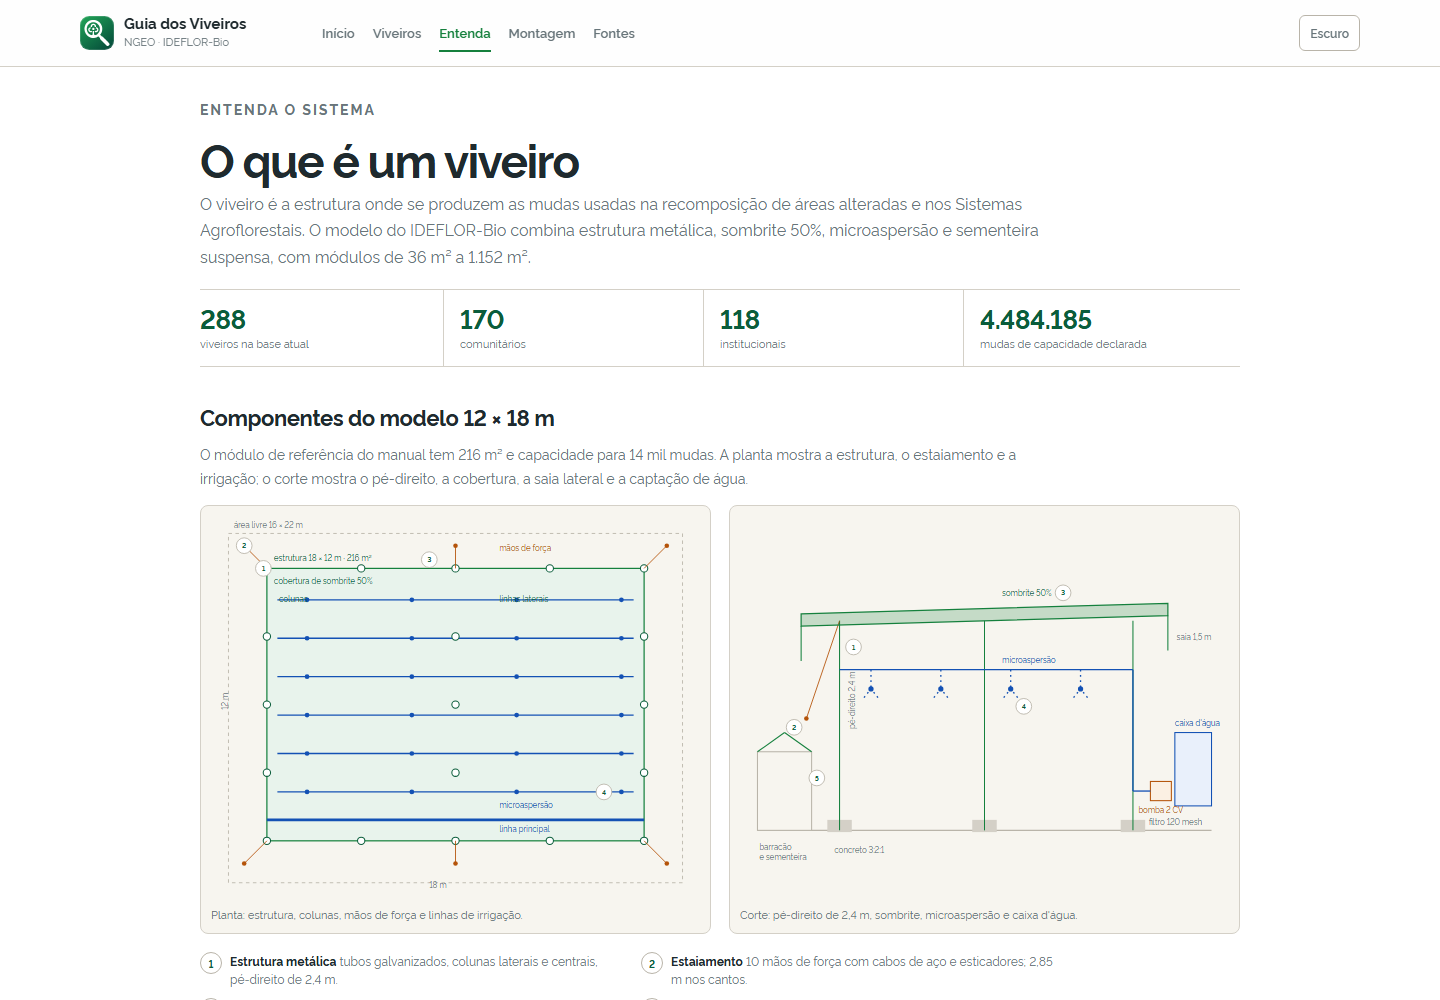
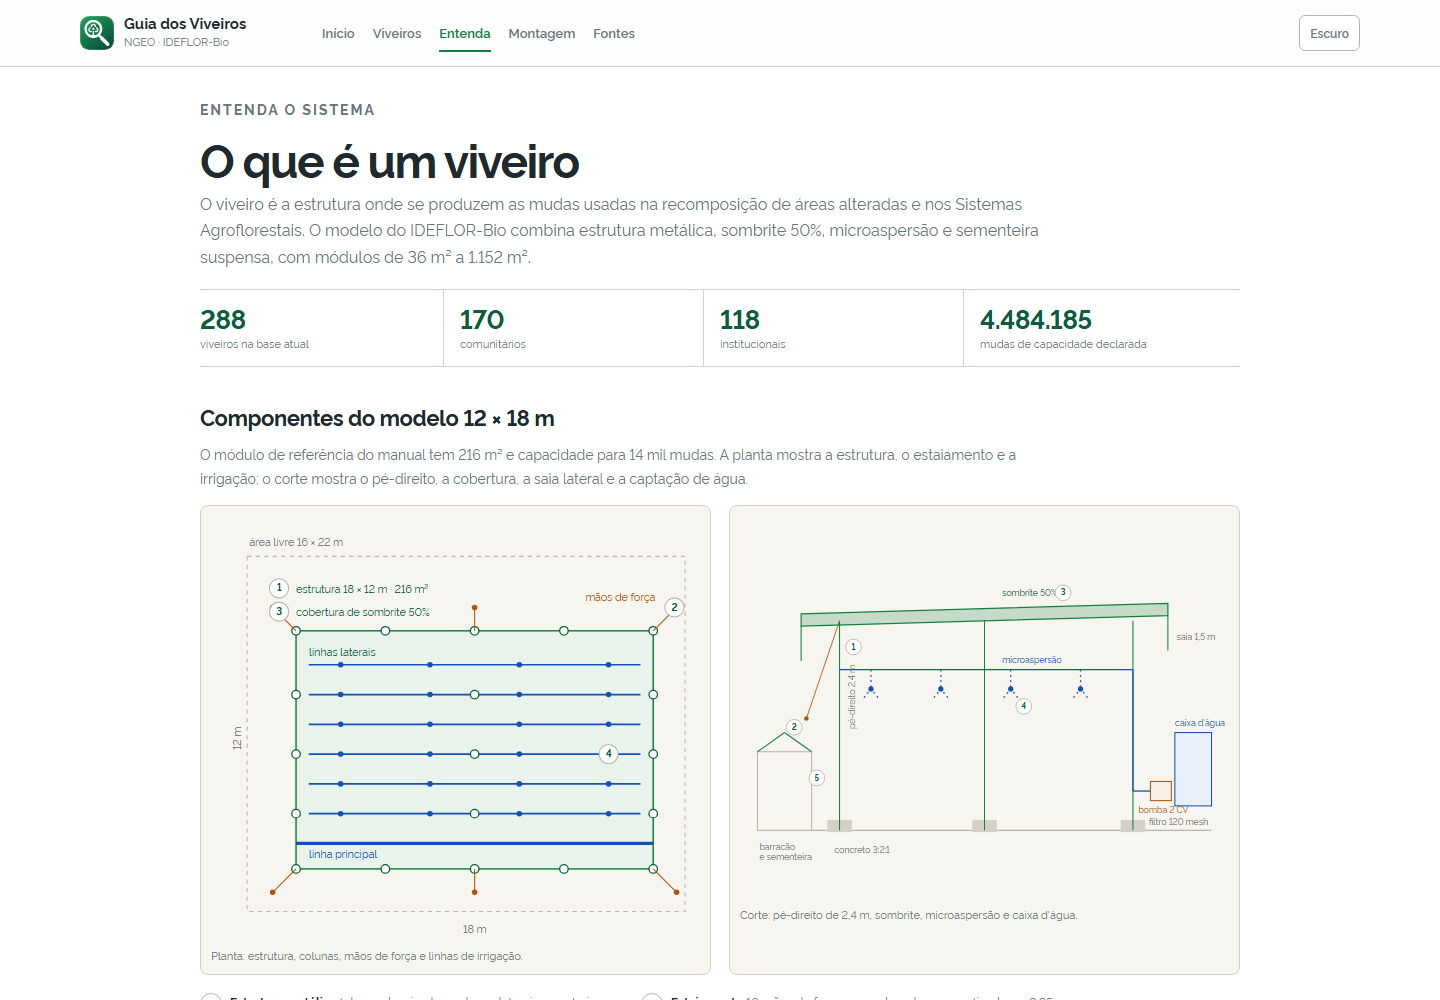
fix(diagram): alinha svg da planta do viveiro ao manual de montagem
- Ajusta proporção e viewBox para 460x400
- Configura malha estrutural real com 12 colunas em vãos de 6 m
- Inclui as 10 mãos de força do estaiamento
- Corrige distribuição dos 24 microaspersores e linha principal
- Atualiza posicionamento dos marcadores e captura de demonstração

diff --git a/assets/js/guia.js b/assets/js/guia.js
@@ -1052,44 +1052,66 @@ function renderProfile(kind, slug) {
 /* Entenda                                                             */
 /* ------------------------------------------------------------------ */
 function planSvg() {
+  // Estrutura 18 × 12 m: retângulo de 80,108 com largura 336 (18m) e altura 224 (12m).
+  // Escala: 336 px / 18 m = 18.667 px/m; 224 px / 12 m = 18.667 px/m.
+  // Vãos de 6 m:
+  // Eixos X (longitudinal 18 m): 0 m (80), 6 m (192), 12 m (304), 18 m (416)
+  // Eixos Y (transversal 12 m): 0 m (108), 6 m (220), 12 m (332)
+  // Total de 12 colunas: 8 perimetrais + 4 no eixo central Y=220 (2 internas + 2 testeiras)
   const columns = [];
-  for (const x of [64, 172, 280, 388, 496]) {
-    columns.push(`<circle class="column" cx="${x}" cy="60" r="4.2"/><circle class="column" cx="${x}" cy="372" r="4.2"/>`);
+  for (const x of [80, 192, 304, 416]) {
+    columns.push(`<circle class="column" cx="${x}" cy="108" r="4.2"/><circle class="column" cx="${x}" cy="332" r="4.2"/>`);
   }
-  for (const y of [138, 216, 294]) {
-    columns.push(`<circle class="column" cx="64" cy="${y}" r="4.2"/><circle class="column" cx="496" cy="${y}" r="4.2"/><circle class="column" cx="280" cy="${y}" r="4.2"/>`);
+  for (const x of [80, 192, 304, 416]) {
+    columns.push(`<circle class="column" cx="${x}" cy="220" r="3.8"/>`);
   }
-  const laterals = [96, 140, 184, 228, 272, 316].map((y) => `<line class="irrigation" x1="76" y1="${y}" x2="484" y2="${y}"/>`).join('');
-  const dots = [96, 140, 184, 228, 272, 316].flatMap((y) => [110, 230, 350, 470].map((x) => `<circle class="irrigation-dot" cx="${x}" cy="${y}" r="2.7"/>`)).join('');
+
+  // Irrigação: 6 linhas laterais e 24 microaspersores (4 por linha)
+  // Laterais distribuídas uniformemente no vão de 12 m
+  const laterals = [128, 164, 202, 238, 276, 312].map((y) => `<line class="irrigation" x1="88" y1="${y}" x2="408" y2="${y}"/>`).join('');
+  const dots = [128, 164, 202, 238, 276, 312].flatMap((y) => [122, 192, 304, 374].map((x) => `<circle class="irrigation-dot" cx="${x}" cy="${y}" r="2.6"/>`)).join('');
+
+  // 10 Mãos de força (estaiamento):
+  // 4 nos cantos (2,85 m na diagonal) e 6 nas colunas intermediárias (2 m para fora)
+  // Cantos: (80,108)->(56,84), (416,108)->(440,84), (80,332)->(56,356), (416,332)->(440,356)
+  // Laterais comprimento (Y=108 e Y=332 em X=192 e X=304): para fora ~37px (2 m)
+  // Laterais testeira (X=80 e X=416 em Y=220): para fora ~37px (2 m)
   const anchors = [
-    [64, 60, 38, 34], [496, 60, 522, 34], [64, 372, 38, 398], [496, 372, 522, 398],
-    [280, 60, 280, 34], [280, 372, 280, 398],
+    // 4 cantos
+    [80, 108, 56, 84], [416, 108, 440, 84], [80, 332, 56, 356], [416, 332, 440, 356],
+    // 2 nas testeiras (colunas centrais de entrada/saída)
+    [80, 220, 43, 220], [416, 220, 453, 220],
+    // 4 nas laterais dos 18 m (colunas dos vãos de 6 m)
+    [192, 108, 192, 71], [304, 108, 304, 71],
+    [192, 332, 192, 369], [304, 332, 304, 369],
   ].map(([x1, y1, x2, y2]) => `<line class="anchor" x1="${x1}" y1="${y1}" x2="${x2}" y2="${y2}"/><circle class="anchor-dot" cx="${x2}" cy="${y2}" r="2.6"/>`).join('');
+
   return `
-  <svg class="diagram-svg" viewBox="0 0 560 440" role="img" aria-labelledby="plan-title plan-desc">
+  <svg class="diagram-svg" viewBox="0 0 460 400" role="img" aria-labelledby="plan-title plan-desc">
     <title id="plan-title">Planta do viveiro de 12 por 18 metros</title>
-    <desc id="plan-desc">Planta esquemática com a área livre de 16 por 22 metros, a estrutura de 18 por 12 metros, colunas, estaiamento, linhas de irrigação e microaspersores.</desc>
-    <rect x="20" y="20" width="520" height="400" fill="none" stroke="#b9b4a9" stroke-dasharray="4 4"/>
-    <text class="label" x="26" y="14">área livre 16 × 22 m</text>
-    <rect class="structure" x="64" y="60" width="432" height="312"/>
-    <text class="label-strong" x="72" y="52">estrutura 18 × 12 m · 216 m²</text>
-    <text class="label-strong" x="72" y="78">cobertura de sombrite 50%</text>
+    <desc id="plan-desc">Planta esquemática com a área livre de 16 por 22 metros, a estrutura de 18 por 12 metros, colunas em vãos de 6 metros, 10 mãos de força, linhas de irrigação e microaspersores.</desc>
+    <rect x="34" y="38" width="412" height="334" fill="none" stroke="#b9b4a9" stroke-dasharray="4 4"/>
+    <text class="label" x="38" y="28">área livre 16 × 22 m</text>
+    <text class="label" x="24" y="220" transform="rotate(-90 24 220)" text-anchor="middle">12 m</text>
+    <text class="label" x="248" y="392" text-anchor="middle">18 m</text>
+
+    <rect class="structure" x="80" y="108" width="336" height="224"/>
     ${laterals}
-    <line class="irrigation-main" x1="64" y1="348" x2="496" y2="348"/>
+    <line class="irrigation-main" x1="80" y1="312" x2="416" y2="312"/>
     ${dots}
     ${columns}
     ${anchors}
-    <text class="label" x="250" y="426">18 m</text>
-    <text class="label" x="20" y="222" transform="rotate(-90 20 222)">12 m</text>
-    <text class="label-anchor" x="330" y="40">mãos de força</text>
-    <text class="label-water" x="330" y="334">microaspersão</text>
-    <text class="label-water" x="330" y="362">linha principal</text>
-    <text class="label-strong" x="330" y="98">linhas laterais</text>
-    <text class="label-strong" x="78" y="98">colunas</text>
-    <circle class="number" cx="60" cy="60" r="9"/><text class="number-text" x="60" y="63" text-anchor="middle">1</text>
-    <circle class="number" cx="38" cy="34" r="9"/><text class="number-text" x="38" y="37" text-anchor="middle">2</text>
-    <circle class="number" cx="250" cy="50" r="9"/><text class="number-text" x="250" y="53" text-anchor="middle">3</text>
-    <circle class="number" cx="450" cy="316" r="9"/><text class="number-text" x="450" y="319" text-anchor="middle">4</text>
+
+    <text class="label-strong" x="80" y="52">estrutura 18 × 12 m · 216 m²</text>
+    <text class="label-strong" x="80" y="94">cobertura de sombrite 50%</text>
+    <text class="label-strong" x="92" y="122">linhas laterais</text>
+    <text class="label-water" x="92" y="324">linha principal</text>
+    <text class="label-anchor" x="430" y="68" text-anchor="end">10 mãos de força</text>
+
+    <circle class="number" cx="80" cy="108" r="9"/><text class="number-text" x="80" y="111" text-anchor="middle">1</text>
+    <circle class="number" cx="440" cy="84" r="9"/><text class="number-text" x="440" y="87" text-anchor="middle">2</text>
+    <circle class="number" cx="248" cy="148" r="9"/><text class="number-text" x="248" y="151" text-anchor="middle">3</text>
+    <circle class="number" cx="374" cy="238" r="9"/><text class="number-text" x="374" y="241" text-anchor="middle">4</text>
   </svg>`;
 }
 

diff --git a/assets/css/guia.css b/assets/css/guia.css
@@ -468,10 +468,10 @@ details.mat-group[open] summary::after { content: "−"; }
 .diagram-svg .irrigation-dot { fill: var(--blue); }
 .diagram-svg .anchor { fill: none; stroke: var(--amber); stroke-width: 1; }
 .diagram-svg .anchor-dot { fill: var(--amber); }
-.diagram-svg .label { fill: var(--muted); font-size: 9px; }
-.diagram-svg .label-strong { fill: var(--green-dark); font-size: 9px; }
-.diagram-svg .label-water { fill: var(--blue); font-size: 9px; }
-.diagram-svg .label-anchor { fill: var(--amber); font-size: 9px; }
+.diagram-svg .label { fill: var(--muted); font-size: 10px; }
+.diagram-svg .label-strong { fill: var(--green-dark); font-size: 10px; }
+.diagram-svg .label-water { fill: var(--blue); font-size: 10px; }
+.diagram-svg .label-anchor { fill: var(--amber); font-size: 10px; }
 .diagram-svg .ground { stroke: var(--line-strong); stroke-width: 1.5; }
 .diagram-svg .concrete { fill: var(--line); }
 .diagram-svg .roof { fill: var(--green); fill-opacity: .22; stroke: var(--green); stroke-width: 1.4; }
@@ -479,7 +479,7 @@ details.mat-group[open] summary::after { content: "−"; }
 .diagram-svg .water { fill: var(--blue-soft); stroke: var(--blue); stroke-width: 1.2; }
 .diagram-svg .pump { fill: var(--amber-soft); stroke: var(--amber); stroke-width: 1.2; }
 .diagram-svg .number { fill: var(--white); stroke: var(--line-strong); stroke-width: 1; }
-.diagram-svg .number-text { fill: var(--green-dark); font-size: 8px; font-weight: 700; }
+.diagram-svg .number-text { fill: var(--green-dark); font-size: 9px; font-weight: 700; }
 .diagram-svg .barracao { fill: var(--paper-2); stroke: var(--line-strong); stroke-width: 1.2; }
 
 /* ---------------------------------------------------------------- */
